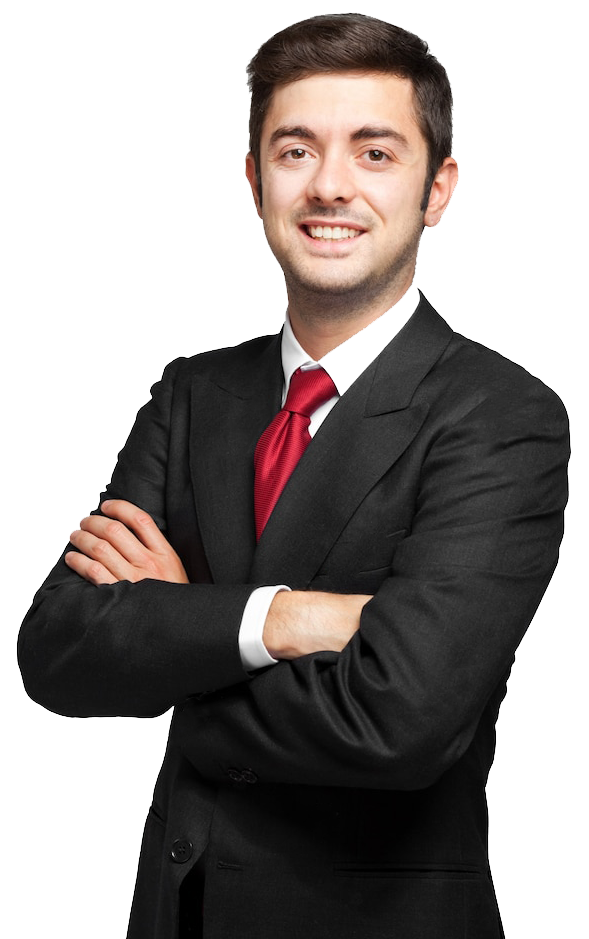
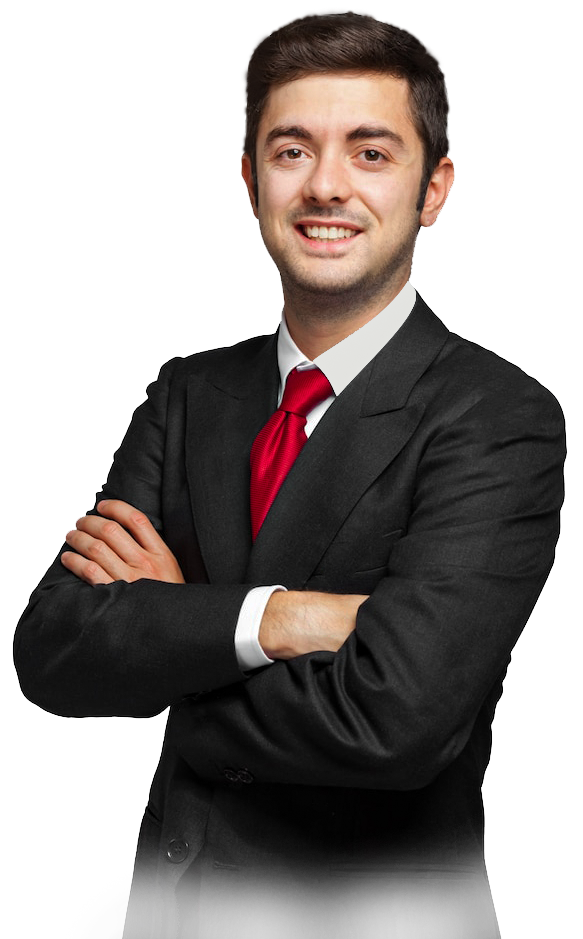
update

diff --git a/src/component/Project.jsx b/src/component/Project.jsx
@@ -4,7 +4,7 @@ const Project = () => {
   return (
     <>
       <div id="Project" className="flex justify-center items-center flex-col h-full bg-black">
-        <div className="flex justify-center items-center flex-col text-white  mt-[50px] w-full">
+        <div className="flex justify-center items-center flex-col text-white w-full">
           <h1 className="text-4xl font-bold ">Project</h1>
           <div className=" my-5 w-[85%] text-justify text-[13px] md:text-[16px] md:text-center">
             <p className="mt-1">
@@ -18,34 +18,34 @@ const Project = () => {
             </p>
           </div>
         </div>
-        <div className="flex justify-center items-center flex-wrap  mt-[40px] w-[90%] md:w-[70%]">
+        <div className="flex justify-center items-center flex-wrap  mt-[40px] w-[90%] md:w-[100%]">
           <img
-            className="text-white w-[100px] sm:w-[200px] md:w-[250px] rounded-xl m-3 hover:scale-110 hover:shadow-[0px_0px_10px_white] transition-all duration-500"
+            className="text-white w-[200px] sm:w-[250px] md:w-[350px] rounded-xl m-3 hover:scale-110 hover:shadow-[0px_0px_10px_white] transition-all duration-500"
             src="/img/project1.png"
             alt="project1 image"
           />
           <img
-            className="text-white w-[100px] sm:w-[200px] md:w-[250px] rounded-xl m-3 hover:scale-110 hover:shadow-[0px_0px_10px_white] transition-all duration-500"
+            className="text-white w-[200px] sm:w-[250px] md:w-[350px] rounded-xl m-3 hover:scale-110 hover:shadow-[0px_0px_10px_white] transition-all duration-500"
             src="/img/project2.png"
             alt="project2 image"
           />
           <img
-            className="text-white w-[100px] sm:w-[200px] md:w-[250px] rounded-xl m-3 hover:scale-110 hover:shadow-[0px_0px_10px_white] transition-all duration-500"
+            className="text-white w-[200px] sm:w-[250px] md:w-[350px] rounded-xl m-3 hover:scale-110 hover:shadow-[0px_0px_10px_white] transition-all duration-500"
             src="/img/project3.png"
             alt="project3 image"
           />
           <img
-            className="text-white w-[100px] sm:w-[200px] md:w-[250px] rounded-xl m-3 hover:scale-110 hover:shadow-[0px_0px_10px_white] transition-all duration-500"
+            className="text-white w-[200px] sm:w-[250px] md:w-[350px] rounded-xl m-3 hover:scale-110 hover:shadow-[0px_0px_10px_white] transition-all duration-500"
             src="/img/project4.png"
             alt="project4 image"
           />
           <img
-            className="text-white w-[100px] sm:w-[200px] md:w-[250px] rounded-xl m-3 hover:scale-110 hover:shadow-[0px_0px_10px_white] transition-all duration-500"
+            className="text-white w-[200px] sm:w-[250px] md:w-[350px] rounded-xl m-3 hover:scale-110 hover:shadow-[0px_0px_10px_white] transition-all duration-500"
             src="/img/project5.png"
             alt="project5 image"
           />
           <img
-            className="text-white w-[100px] sm:w-[200px] md:w-[250px] rounded-xl m-3 hover:scale-110 hover:shadow-[0px_0px_10px_white] transition-all duration-500"
+            className="text-white w-[200px] sm:w-[250px] md:w-[350px] rounded-xl m-3 hover:scale-110 hover:shadow-[0px_0px_10px_white] transition-all duration-500"
             src="/img/project6.png"
             alt="project6 image"
           />

diff --git a/src/component/Contact.jsx b/src/component/Contact.jsx
@@ -7,28 +7,28 @@ const Contact = () => {
         id="Contact"
         className="h-full w-full flex flex-col justify-center items-center bg-black"
       >
-        <h1 className="text-3xl md:text-4xl font-bold mt-[101px] mb-6 text-white">
+        <h1 className="text-3xl md:text-4xl font-bold mt-[10px] mb-6 text-white">
           Contact Me
         </h1>
         <input
-          className=" text-[13px] md:text-[15px] text-white bg-[#1c1e1f] outline-none p-4 m-4 rounded-lg w-[70%] md:w-[50%]"
+          className=" text-[13px] md:text-[15px] text-white bg-[#1c1e1f] outline-none p-4 m-4 rounded-lg h-[30px] md:h-[60px] w-[70%] md:w-[50%]"
           type="text"
           placeholder="Your Name"
           required
         />
         <input
-          className=" text-[13px] md:text-[15px] text-white bg-[#1c1e1f] outline-none p-4 m-1 rounded-lg w-[70%] md:w-[50%]"
+          className=" text-[13px] md:text-[15px] text-white bg-[#1c1e1f] outline-none p-4 m-1 rounded-lg h-[30px] md:h-[60px] w-[70%] md:w-[50%]"
           type="email"
           placeholder="Your Email"
           required
         />
         <input
-          className=" text-[13px] md:text-[15px] text-white bg-[#1c1e1f] outline-none p-4 m-4 rounded-lg w-[70%] md:w-[50%] h-[150px] inline-block align-baseline"
+          className=" text-[13px] md:text-[15px] text-white bg-[#1c1e1f] outline-none p-4 m-4 rounded-lg h-[90px] md:h-[120px] w-[70%] md:w-[50%] inline-block align-baseline"
           type="text"
           placeholder="Your Message"
           required
         />
-        <button className="flex items-center justify-center w-[100px] h-[40px] md:w-[150px] md:h-[50px] p-4 bg-[#ff0342] rounded-lg md:my-11 font-bold text-white text-[13px] md:text-[15px] hover:bg-white  hover:text-black duration-500 ">
+        <button className="flex items-center justify-center w-[80px] h-[30px] md:w-[150px] md:h-[50px] p-4 bg-[#ff0342] rounded-lg md:my-11 font-bold text-white text-[13px] md:text-[15px] hover:bg-white  hover:text-black duration-500 ">
           Submit
         </button>
       </div>

diff --git a/src/component/Intro.jsx b/src/component/Intro.jsx
@@ -40,7 +40,7 @@ const Intro = () => {
           />
           <img
             className="block vsm:hidden mt-4  w-[43%] h-[95%] "
-            src="/img/men1.png"
+            src="/img/men.png"
             alt="men image"
           />
         </div>
